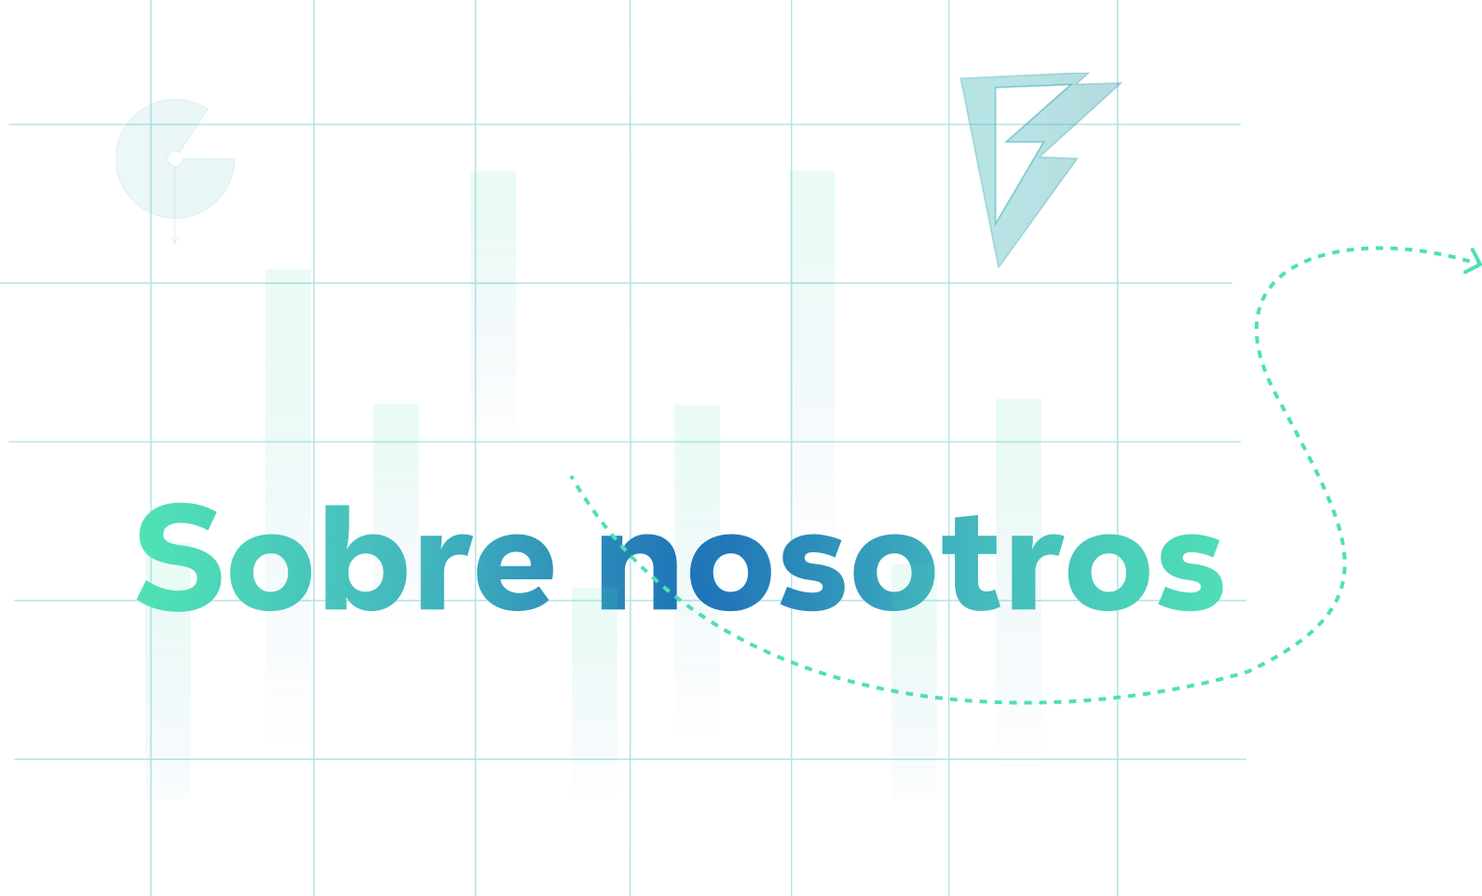
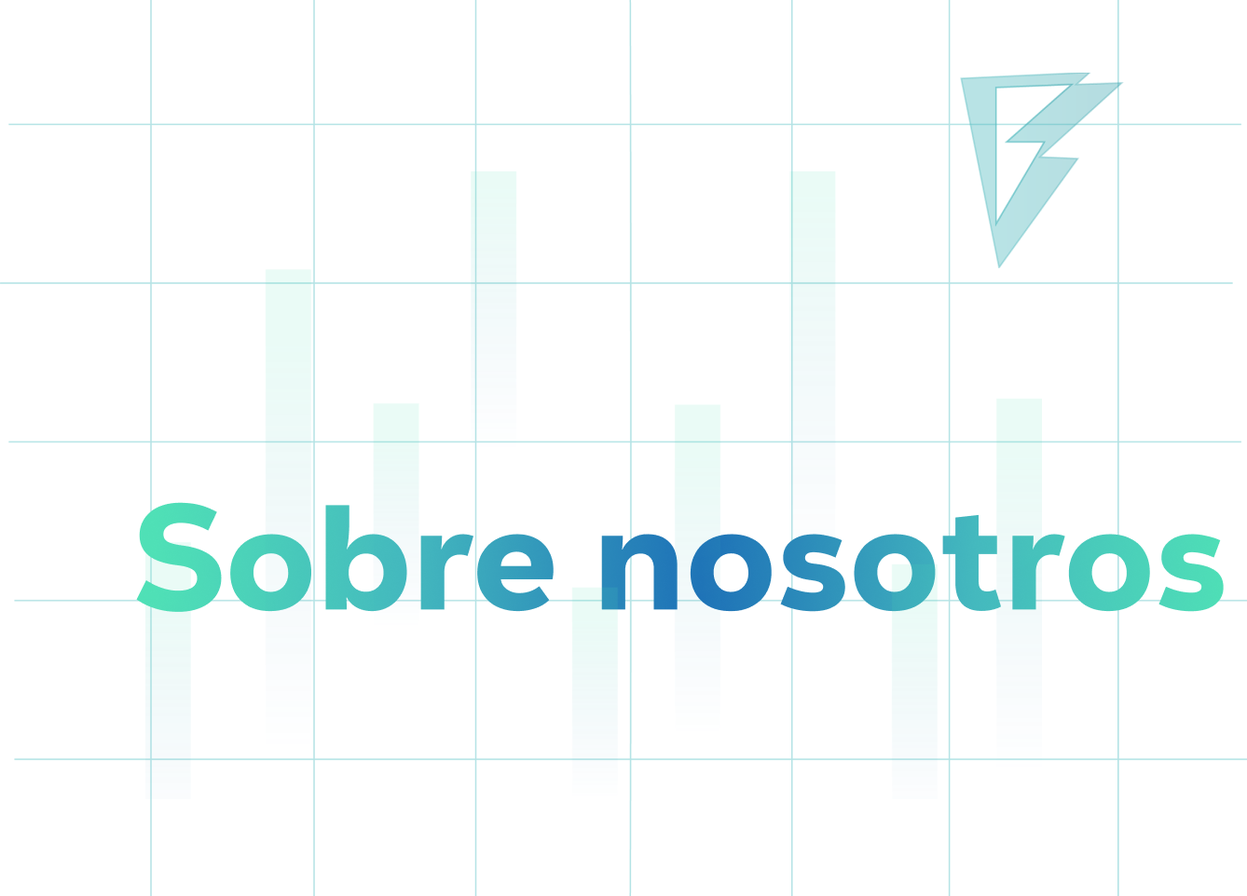
revison

diff --git a/components/landing/About/index.tsx b/components/landing/About/index.tsx
@@ -4,33 +4,16 @@ import Image from "next/image";
 const About = () => {
   return (
     <section className=" pb-10  relative ">
-      <Container className="gap-4 my-10 flex flex-col items-center lg:flex-row">
+      <Container className="gap-y-6 gap-x-[6rem] relative my-10 flex flex-col items-center lg:flex-row">
         <div className=" flex-1">
           <Image
             src={aboutImage}
             alt="about"
-            className=" w-full h-full object-cover"
+            className=" relative z-10 w-full h-full object-cover"
           />
         </div>
-        {/* <div className="  relative object-contain overflow-hidden flex items-center sm:justify-center lg:justify-end">
-          <div className="about_content space-y-6">
-            <h3 className=" text-xl lg:text-2xl text-center font-normal">
-              Somos un equipo apasionado por la tecnología, con la misión de
-              hacer las inversiones accesibles para todos los que quieran
-              invertir.
-            </h3>
-            <h3 className=" text-xl lg:text-2xl text-center font-normal">
-              Estamos comprometidos a crear soluciones de inversión, que
-              permitan a todos invertir de manera más simple.
-            </h3>
-          </div>
-          <Image
-            src={aboutReg}
-            alt="about"
-            className=" absolute w-full object-covert h-full inset-0"
-          />
-        </div> */}
-        <div className="relativeinline-flex about_content space-y-6 items-center justify-center p-1 mb-2 me-2 overflow-hidden text-sm font-medium text-gray-900 rounded-lg  bg-gradient-to-br from-[#4FE0B6] to-[#1D70B7] g">
+
+        <div className="relative inline-flex about_content space-y-6 items-center justify-center p-1 mb-2 me-2 overflow-hidden text-sm font-medium text-gray-900 rounded-lg  bg-gradient-to-br from-[#4FE0B6] to-[#1D70B7] g">
           <div className="relative overflow-hidden px-6 py-3  bg-[#02060C] transition-all ease-in duration-75  rounded-md ">
             <div className=" py-5 space-y-3">
               <h3 className=" text-white text-xl lg:text-2xl text-center font-normal">
@@ -47,6 +30,19 @@ const About = () => {
             <div className="  bg-[#4FE0B6] absolute blur-[150px] rounded-[50px] opacity-10 inset-0 w-full h-full"></div>
           </div>
         </div>
+        <svg
+          xmlns="http://www.w3.org/2000/svg"
+          width="420"
+          height="247"
+          viewBox="0 0 491 247"
+          fill="none"
+          className=" z-40  hidden lg:block absolute inset-0 transform lg:translate-x-[55%]  lg:translate-y-[50%]"
+        >
+          <path
+            d="M365 228.5L365.289 229.457L365.361 229.435L365.43 229.403L365 228.5ZM380 79.9996L380.882 79.5275L380 79.9996ZM489.953 10.8912C490.445 10.6411 490.642 10.0392 490.392 9.54675L486.316 1.52253C486.066 1.03013 485.464 0.833705 484.971 1.08381C484.479 1.33392 484.283 1.93585 484.533 2.42826L488.156 9.5609L481.023 13.1838C480.531 13.4339 480.334 14.0358 480.584 14.5282C480.834 15.0207 481.436 15.2171 481.929 14.967L489.953 10.8912ZM0.636307 124.004C0.97827 124.59 1.32196 125.173 1.66736 125.754L3.38639 124.732C3.04379 124.156 2.70289 123.577 2.36369 122.996L0.636307 124.004ZM3.76025 129.208C4.46466 130.349 5.17582 131.48 5.89362 132.601L7.57786 131.523C6.86604 130.411 6.16076 129.29 5.46215 128.158L3.76025 129.208ZM8.06679 135.934C8.81001 137.053 9.55998 138.162 10.3166 139.26L11.9637 138.126C11.2135 137.036 10.4699 135.937 9.73288 134.827L8.06679 135.934ZM12.6325 142.561C13.4111 143.651 14.1965 144.731 14.9884 145.8L16.5955 144.61C15.8105 143.55 15.0319 142.48 14.2599 141.399L12.6325 142.561ZM17.3835 148.976C18.2041 150.045 19.0313 151.103 19.8651 152.151L21.43 150.906C20.6034 149.867 19.7834 148.818 18.9699 147.758L17.3835 148.976ZM22.399 155.278C23.2501 156.309 24.1077 157.33 24.9717 158.341L26.4918 157.041C25.6354 156.039 24.7853 155.027 23.9416 154.005L22.399 155.278ZM27.5871 161.345C28.4823 162.355 29.3839 163.355 30.2919 164.343L31.7648 162.99C30.8649 162.01 29.9713 161.02 29.084 160.019L27.5871 161.345ZM33.0348 167.276C33.9554 168.243 34.8821 169.199 35.815 170.145L37.2387 168.74C36.3142 167.803 35.3957 166.856 34.4833 165.897L33.0348 167.276ZM38.6542 172.972C39.616 173.913 40.5838 174.842 41.5577 175.761L42.9303 174.307C41.9651 173.396 41.0058 172.475 40.0527 171.542L38.6542 172.972ZM44.4972 178.486C45.483 179.383 46.4746 180.27 47.4719 181.146L48.7918 179.643C47.8034 178.775 46.8206 177.896 45.8436 177.007L44.4972 178.486ZM50.5197 183.775C51.5432 184.642 52.5723 185.499 53.6071 186.344L54.8726 184.796C53.847 183.958 52.827 183.109 51.8126 182.249L50.5197 183.775ZM56.7279 188.849C57.7781 189.677 58.8338 190.494 59.8947 191.3L61.105 189.708C60.0533 188.909 59.0069 188.099 57.9659 187.278L56.7279 188.849ZM63.1175 193.706C64.197 194.497 65.2818 195.277 66.3716 196.047L67.5256 194.413C66.4452 193.65 65.3698 192.877 64.2997 192.092L63.1175 193.706ZM69.6562 198.325C70.7651 199.08 71.879 199.825 72.9978 200.559L74.0949 198.887C72.9857 198.159 71.8813 197.421 70.7819 196.672L69.6562 198.325ZM76.3719 202.732C77.5014 203.446 78.6355 204.149 79.7742 204.842L80.8142 203.134C79.685 202.447 78.5604 201.749 77.4405 201.041L76.3719 202.732ZM83.2147 206.898C84.3707 207.575 85.5311 208.242 86.6957 208.899L87.6784 207.158C86.5233 206.506 85.3725 205.844 84.2261 205.172L83.2147 206.898ZM90.2022 210.84C91.3754 211.477 92.5526 212.104 93.7337 212.72L94.6595 210.947C93.4878 210.336 92.32 209.714 91.1564 209.082L90.2022 210.84ZM97.3088 214.551C98.5044 215.151 99.7037 215.741 100.907 216.321L101.776 214.52C100.582 213.944 99.3922 213.359 98.2061 212.763L97.3088 214.551ZM104.526 218.033C105.74 218.595 106.957 219.148 108.177 219.69L108.99 217.863C107.779 217.324 106.571 216.776 105.367 216.218L104.526 218.033ZM111.855 221.293C113.084 221.817 114.316 222.332 115.551 222.837L116.308 220.986C115.082 220.485 113.859 219.974 112.64 219.453L111.855 221.293ZM119.268 224.327C120.514 224.815 121.763 225.294 123.014 225.764L123.717 223.892C122.475 223.425 121.235 222.95 119.998 222.465L119.268 224.327ZM126.776 227.146C128.032 227.597 129.291 228.039 130.552 228.472L131.202 226.58C129.949 226.15 128.699 225.711 127.452 225.263L126.776 227.146ZM134.355 229.748C135.625 230.164 136.897 230.572 138.172 230.97L138.769 229.061C137.503 228.666 136.239 228.261 134.978 227.847L134.355 229.748ZM142.001 232.14C143.282 232.521 144.564 232.894 145.848 233.258L146.394 231.334C145.118 230.972 143.844 230.602 142.572 230.223L142.001 232.14ZM149.713 234.327C151.002 234.674 152.293 235.013 153.586 235.344L154.081 233.406C152.797 233.078 151.514 232.741 150.233 232.396L149.713 234.327ZM157.469 236.311C158.77 236.626 160.071 236.933 161.373 237.231L161.82 235.282C160.526 234.985 159.232 234.68 157.94 234.367L157.469 236.311ZM165.283 238.102C166.587 238.384 167.892 238.658 169.198 238.923L169.597 236.964C168.299 236.699 167.002 236.427 165.706 236.147L165.283 238.102ZM173.132 239.7C174.445 239.951 175.758 240.194 177.072 240.429L177.425 238.461C176.119 238.227 174.813 237.985 173.508 237.736L173.132 239.7ZM181.014 241.112C182.332 241.332 183.65 241.545 184.968 241.75L185.276 239.773C183.965 239.57 182.654 239.358 181.344 239.139L181.014 241.112ZM188.933 242.343C190.255 242.534 191.576 242.716 192.897 242.892L193.16 240.909C191.847 240.735 190.533 240.553 189.219 240.364L188.933 242.343ZM196.864 243.396C198.194 243.558 199.522 243.713 200.85 243.86L201.07 241.872C199.75 241.726 198.428 241.572 197.106 241.411L196.864 243.396ZM204.831 244.279C206.157 244.412 207.482 244.538 208.806 244.656L208.984 242.664C207.668 242.546 206.349 242.421 205.03 242.289L204.831 244.279ZM212.807 244.994C214.14 245.099 215.472 245.198 216.802 245.289L216.94 243.294C215.616 243.203 214.291 243.105 212.965 243L212.807 244.994ZM220.787 245.544C222.124 245.622 223.459 245.694 224.792 245.759L224.889 243.762C223.563 243.697 222.235 243.625 220.904 243.547L220.787 245.544ZM228.797 245.935C230.13 245.987 231.46 246.033 232.788 246.072L232.847 244.072C231.525 244.034 230.201 243.989 228.875 243.937L228.797 245.935ZM236.791 246.17C238.131 246.196 239.469 246.216 240.804 246.23L240.824 244.23C239.496 244.216 238.164 244.196 236.831 244.17L236.791 246.17ZM244.799 246.252C246.134 246.253 247.467 246.248 248.796 246.237L248.779 244.237C247.456 244.248 246.13 244.253 244.801 244.252L244.799 246.252ZM252.813 246.184C254.149 246.16 255.481 246.13 256.809 246.095L256.755 244.095C255.433 244.131 254.107 244.161 252.778 244.184L252.813 246.184ZM260.797 245.969C262.141 245.921 263.481 245.867 264.816 245.807L264.726 243.809C263.397 243.869 262.063 243.923 260.725 243.971L260.797 245.969ZM268.809 245.609C270.14 245.537 271.465 245.46 272.786 245.377L272.661 243.38C271.346 243.463 270.026 243.54 268.701 243.612L268.809 245.609ZM276.805 245.106C278.139 245.01 279.467 244.908 280.791 244.801L280.63 242.808C279.312 242.914 277.989 243.015 276.661 243.111L276.805 245.106ZM284.758 244.463C286.102 244.343 287.439 244.217 288.771 244.086L288.574 242.096C287.249 242.226 285.917 242.352 284.579 242.471L284.758 244.463ZM292.745 243.677C294.072 243.534 295.392 243.386 296.705 243.233L296.473 241.247C295.166 241.399 293.852 241.546 292.531 241.688L292.745 243.677ZM300.706 242.75C302.033 242.583 303.352 242.412 304.663 242.236L304.396 240.254C303.091 240.429 301.778 240.6 300.458 240.765L300.706 242.75ZM308.619 241.686C309.956 241.495 311.284 241.298 312.603 241.097L312.301 239.12C310.988 239.32 309.666 239.516 308.335 239.707L308.619 241.686ZM316.532 240.479C317.862 240.263 319.183 240.043 320.494 239.819L320.156 237.848C318.851 238.071 317.537 238.29 316.212 238.505L316.532 240.479ZM324.447 239.123C325.755 238.886 327.051 238.645 328.337 238.4L327.963 236.436C326.683 236.679 325.393 236.919 324.091 237.155L324.447 239.123ZM332.314 237.623C333.629 237.359 334.932 237.091 336.222 236.819L335.81 234.862C334.526 235.132 333.23 235.399 331.921 235.662L332.314 237.623ZM340.129 235.975C341.454 235.682 342.763 235.385 344.058 235.084L343.606 233.136C342.318 233.435 341.015 233.73 339.697 234.022L340.129 235.975ZM347.897 234.172C349.23 233.847 350.545 233.52 351.843 233.188L351.348 231.251C350.058 231.58 348.75 231.906 347.425 232.228L347.897 234.172ZM355.687 232.184C357.003 231.832 358.3 231.477 359.576 231.119L359.036 229.193C357.767 229.549 356.479 229.902 355.17 230.252L355.687 232.184ZM363.417 230.015C364.046 229.829 364.67 229.644 365.289 229.457L364.711 227.542C364.097 227.727 363.477 227.912 362.852 228.096L363.417 230.015ZM365.43 229.403C366.044 229.11 366.652 228.818 367.254 228.526L366.381 226.727C365.783 227.017 365.18 227.307 364.57 227.597L365.43 229.403ZM370.793 226.772C371.989 226.167 373.159 225.561 374.304 224.955L373.368 223.187C372.235 223.787 371.075 224.388 369.89 224.988L370.793 226.772ZM377.77 223.075C378.95 222.42 380.1 221.763 381.221 221.106L380.21 219.38C379.102 220.03 377.965 220.679 376.798 221.327L377.77 223.075ZM384.575 219.084C385.732 218.365 386.857 217.645 387.947 216.923L386.844 215.255C385.77 215.966 384.662 216.676 383.52 217.384L384.575 219.084ZM391.202 214.695C392.304 213.913 393.367 213.13 394.394 212.343L393.178 210.756C392.172 211.526 391.127 212.296 390.045 213.063L391.202 214.695ZM397.516 209.848C398.555 208.981 399.55 208.11 400.502 207.234L399.148 205.762C398.22 206.615 397.249 207.465 396.234 208.313L397.516 209.848ZM403.344 204.479C404.3 203.5 405.205 202.514 406.06 201.523L404.545 200.217C403.718 201.176 402.842 202.131 401.913 203.082L403.344 204.479ZM408.572 198.398C409.388 197.306 410.145 196.207 410.847 195.098L409.157 194.028C408.484 195.092 407.755 196.15 406.97 197.201L408.572 198.398ZM412.849 191.621C413.474 190.417 414.037 189.203 414.54 187.977L412.69 187.218C412.21 188.388 411.672 189.547 411.074 190.698L412.849 191.621ZM415.892 184.19C416.285 182.904 416.615 181.605 416.886 180.293L414.927 179.889C414.669 181.141 414.354 182.38 413.979 183.606L415.892 184.19ZM417.521 176.323C417.672 175.001 417.768 173.666 417.81 172.317L415.811 172.255C415.771 173.551 415.679 174.83 415.534 176.095L417.521 176.323ZM417.781 168.304C417.723 166.99 417.618 165.662 417.469 164.319L415.481 164.541C415.626 165.841 415.727 167.125 415.783 168.393L417.781 168.304ZM416.911 160.376C416.691 159.089 416.434 157.789 416.141 156.475L414.189 156.91C414.475 158.193 414.726 159.46 414.939 160.712L416.911 160.376ZM415.189 152.616C414.85 151.356 414.481 150.082 414.082 148.795L412.172 149.387C412.563 150.651 412.926 151.901 413.258 153.136L415.189 152.616ZM412.842 145.01C412.42 143.787 411.974 142.552 411.506 141.304L409.633 142.008C410.096 143.24 410.536 144.458 410.951 145.662L412.842 145.01ZM410.072 137.622C409.585 136.412 409.079 135.189 408.553 133.954L406.713 134.738C407.234 135.961 407.735 137.171 408.217 138.369L410.072 137.622ZM406.977 130.339C406.449 129.156 405.906 127.961 405.347 126.755L403.532 127.595C404.087 128.793 404.627 129.98 405.15 131.153L406.977 130.339ZM403.657 123.166C403.099 121.998 402.528 120.82 401.944 119.631L400.149 120.512C400.73 121.695 401.298 122.868 401.853 124.028L403.657 123.166ZM400.193 116.1C399.608 114.934 399.012 113.757 398.406 112.569L396.624 113.478C397.229 114.662 397.822 115.835 398.405 116.996L400.193 116.1ZM396.614 109.084C396.012 107.923 395.402 106.751 394.783 105.569L393.011 106.497C393.629 107.677 394.238 108.845 394.838 110.003L396.614 109.084ZM392.96 102.105C392.351 100.952 391.734 99.7887 391.109 98.6155L389.344 99.5549C389.967 100.727 390.583 101.888 391.192 103.039L392.96 102.105ZM389.262 95.1514C388.648 94.0033 388.028 92.8455 387.402 91.6779L385.639 92.623C386.265 93.79 386.885 94.9471 387.498 96.0943L389.262 95.1514ZM385.543 88.2133C384.927 87.0661 384.307 85.9128 383.681 84.7469L381.919 85.693C382.544 86.8569 383.166 88.0145 383.781 89.1594L385.543 88.2133ZM381.821 81.2812C381.509 80.6989 381.196 80.1144 380.882 79.5275L379.118 80.4718C379.433 81.059 379.746 81.6438 380.059 82.2263L381.821 81.2812ZM380.882 79.5275C380.562 78.9314 380.251 78.3392 379.947 77.7507L378.17 78.6676C378.478 79.2654 378.794 79.8667 379.118 80.4718L380.882 79.5275ZM378.22 74.2659C377.649 73.0664 377.113 71.8836 376.609 70.7173L374.773 71.5103C375.286 72.6993 375.833 73.9041 376.413 75.1246L378.22 74.2659ZM375.148 67.1444C374.668 65.8974 374.226 64.6704 373.823 63.4634L371.926 64.097C372.339 65.3338 372.791 66.5892 373.282 67.8635L375.148 67.1444ZM372.7 59.8066C372.341 58.5197 372.027 57.257 371.757 56.0184L369.803 56.4447C370.081 57.7222 370.405 59.0221 370.774 60.3447L372.7 59.8066ZM371.053 52.2195C370.857 50.9258 370.712 49.6603 370.616 48.4227L368.622 48.5781C368.722 49.8654 368.873 51.1789 369.076 52.5187L371.053 52.2195ZM370.471 44.5754C370.477 43.261 370.541 41.981 370.662 40.7348L368.671 40.5426C368.545 41.8515 368.477 43.1927 368.471 44.5665L370.471 44.5754ZM371.217 36.9543C371.469 35.6862 371.785 34.4564 372.159 33.2642L370.252 32.6643C369.855 33.9261 369.522 35.2257 369.255 36.5634L371.217 36.9543ZM373.503 29.7041C374.021 28.5358 374.602 27.4071 375.243 26.3176L373.519 25.3035C372.84 26.4582 372.224 27.6547 371.674 28.8933L373.503 29.7041ZM377.359 23.1441C378.119 22.1306 378.938 21.1553 379.811 20.2178L378.347 18.8546C377.427 19.8425 376.563 20.872 375.759 21.9437L377.359 23.1441ZM382.553 17.5542C383.5 16.7194 384.496 15.9195 385.539 15.1542L384.356 13.5417C383.267 14.3408 382.224 15.178 381.23 16.0538L382.553 17.5542ZM388.728 13.0103C389.806 12.3453 390.925 11.7117 392.082 11.1092L391.158 9.33535C389.961 9.95911 388.8 10.6164 387.678 11.3077L388.728 13.0103ZM395.573 9.43556C396.736 8.92267 397.931 8.43762 399.156 7.9802L398.456 6.10656C397.197 6.57693 395.966 7.07648 394.766 7.60557L395.573 9.43556ZM402.81 6.72504C404.027 6.34131 405.27 5.98243 406.537 5.64821L406.026 3.71443C404.73 4.05639 403.457 4.42399 402.209 4.81753L402.81 6.72504ZM410.324 4.73686C411.575 4.464 412.845 4.21345 414.133 3.98506L413.784 2.01576C412.471 2.2486 411.175 2.50421 409.898 2.78285L410.324 4.73686ZM417.968 3.37781C419.244 3.19923 420.535 3.0411 421.841 2.90326L421.631 0.914317C420.303 1.05447 418.99 1.21533 417.691 1.39712L417.968 3.37781ZM425.722 2.55601C427.005 2.46147 428.299 2.38559 429.605 2.32823L429.517 0.330155C428.192 0.388369 426.878 0.465396 425.575 0.561425L425.722 2.55601ZM433.51 2.21217C434.801 2.19184 436.1 2.18894 437.408 2.20331L437.43 0.20343C436.105 0.188864 434.787 0.191804 433.478 0.21242L433.51 2.21217ZM441.304 2.2963C442.601 2.34371 443.904 2.40759 445.212 2.4878L445.334 0.491546C444.01 0.410345 442.691 0.345656 441.378 0.297636L441.304 2.2963ZM449.097 2.7726C450.389 2.88265 451.685 3.00825 452.984 3.14927L453.2 1.16095C451.886 1.01828 450.574 0.891188 449.267 0.779814L449.097 2.7726ZM456.865 3.61507C458.15 3.78405 459.437 3.96787 460.726 4.16637L461.031 2.18969C459.727 1.98895 458.425 1.80305 457.125 1.63214L456.865 3.61507ZM464.583 4.80388C465.862 5.0296 467.141 5.26963 468.419 5.52385L468.809 3.56226C467.517 3.30524 466.224 3.06256 464.931 2.83433L464.583 4.80388ZM472.242 6.32693C473.512 6.60806 474.781 6.90311 476.047 7.21196L476.521 5.26893C475.241 4.95669 473.959 4.6584 472.674 4.37418L472.242 6.32693ZM479.831 8.17819C481.089 8.51389 482.343 8.8632 483.593 9.22599L484.151 7.30524C482.887 6.9384 481.618 6.58522 480.347 6.24581L479.831 8.17819ZM487.332 10.3554C487.953 10.5504 488.572 10.7487 489.19 10.9503L489.81 9.04895C489.185 8.84505 488.559 8.64452 487.931 8.44737L487.332 10.3554Z"
+            fill="#4FE0B6"
+          />
+        </svg>
       </Container>
     </section>
   );

diff --git a/components/landing/Reason.tsx b/components/landing/Reason.tsx
@@ -8,18 +8,173 @@ const Reasons = () => {
         <h2 className="heading">3 RAZONES PARA INVERTIR CON FREQUENCY </h2>
         <div className=" pt-10 xl:pt-16 grid sm:grid-cols-2 gap-10  lg:grid-cols-3">
           <ResonsCard
-            icon="/charts.png"
+            icon={
+              <svg
+                xmlns="http://www.w3.org/2000/svg"
+                width={75}
+                height={59}
+                viewBox="0 0 75 59"
+                fill="none"
+              >
+                <path
+                  d="M18.0111 26.1053H26.9943C27.1737 26.1053 27.342 26.2013 27.4355 26.357L31.726 33.5038C31.9203 33.8274 32.3824 33.8418 32.5785 33.5303L41.9647 18.6216C42.1515 18.3249 42.5852 18.3206 42.7945 18.6134L47.9941 25.8883C48.0912 26.0241 48.2477 26.1053 48.4125 26.1053H55.1042"
+                  stroke="#4FE0B6"
+                  strokeWidth={4}
+                  strokeLinecap="round"
+                />
+                <g filter="url(#filter0_d_1_314)">
+                  <path
+                    d="M4.55932 10.6687C4.56805 4.72593 9.30491 0 15.2527 0H59.168C65.3712 0 70.4924 5.12444 70.4833 11.3225L70.4407 40.3313C70.432 46.2741 65.6951 51 59.7473 51H15.8321C9.62882 51 4.5076 45.8756 4.5167 39.6775L4.55932 10.6687Z"
+                    fill="url(#paint0_linear_1_314)"
+                    shapeRendering="crispEdges"
+                  />
+                  <path
+                    d="M6.56012 10.7282C6.56726 5.86587 10.4429 1.9992 15.3093 1.9992H59.2245C64.2999 1.9992 68.49 6.19192 68.4825 11.263L68.4399 40.2718C68.4328 45.1341 64.5572 49.0008 59.6908 49.0008H15.7755C10.7001 49.0008 6.51005 44.8081 6.5175 39.737L6.56012 10.7282Z"
+                    stroke="#4FE0B6"
+                    strokeWidth={4}
+                    shapeRendering="crispEdges"
+                  />
+                </g>
+                <defs>
+                  <filter
+                    id="filter0_d_1_314"
+                    x="0.516693"
+                    y={0}
+                    width="73.9667"
+                    height={59}
+                    filterUnits="userSpaceOnUse"
+                    colorInterpolationFilters="sRGB"
+                  >
+                    <feFlood floodOpacity={0} result="BackgroundImageFix" />
+                    <feColorMatrix
+                      in="SourceAlpha"
+                      type="matrix"
+                      values="0 0 0 0 0 0 0 0 0 0 0 0 0 0 0 0 0 0 127 0"
+                      result="hardAlpha"
+                    />
+                    <feOffset dy={4} />
+                    <feGaussianBlur stdDeviation={2} />
+                    <feComposite in2="hardAlpha" operator="out" />
+                    <feColorMatrix
+                      type="matrix"
+                      values="0 0 0 0 0 0 0 0 0 0 0 0 0 0 0 0 0 0 0.25 0"
+                    />
+                    <feBlend
+                      mode="normal"
+                      in2="BackgroundImageFix"
+                      result="effect1_dropShadow_1_314"
+                    />
+                    <feBlend
+                      mode="normal"
+                      in="SourceGraphic"
+                      in2="effect1_dropShadow_1_314"
+                      result="shape"
+                    />
+                  </filter>
+                  <linearGradient
+                    id="paint0_linear_1_314"
+                    x1="36.7788"
+                    y1={0}
+                    x2="36.7788"
+                    y2={51}
+                    gradientUnits="userSpaceOnUse"
+                  >
+                    <stop stopColor="#4FE0B6" stopOpacity="0.31" />
+                    <stop offset={1} stopColor="#D9D9D9" stopOpacity={0} />
+                  </linearGradient>
+                </defs>
+              </svg>
+            }
             title="Tecnologia de punta:"
             description="Usamos IA de vanguardia desarrollada por expertos para brindarte una plataforma de inversion que se destaca por su capacidad para ofrecer resultados aun en momentos complejos
             del mercado."
           />
           <ResonsCard
-            icon="/laptop.png"
+            icon={
+              <svg
+                xmlns="http://www.w3.org/2000/svg"
+                width={65}
+                height={51}
+                viewBox="0 0 65 51"
+                fill="none"
+              >
+                <path
+                  d="M18.7511 48.6313H44.4983"
+                  stroke="#4FE0B6"
+                  strokeWidth={4}
+                  strokeLinecap="round"
+                />
+                <path
+                  d="M5.61334 3L58.873 3L58.9411 38.088H5.65635L5.61334 3Z"
+                  fill="url(#paint0_linear_1_319)"
+                />
+                <path
+                  d="M3.95636 12.0631C3.88389 7.00871 7.99668 2.78209 13.0581 2.70951L51.8689 2.15297C56.7517 2.08295 60.7012 5.91554 60.7711 10.7916L61.0437 29.7957C61.1161 34.85 57.0035 39.0766 51.9423 39.1494L13.1314 39.7072C8.24849 39.7774 4.29876 35.9448 4.22885 31.0685L3.95636 12.0631Z"
+                  stroke="#4FE0B6"
+                  strokeWidth={4}
+                />
+                <defs>
+                  <linearGradient
+                    id="paint0_linear_1_319"
+                    x1="33.3058"
+                    y1="2.04577"
+                    x2="33.3058"
+                    y2="38.4725"
+                    gradientUnits="userSpaceOnUse"
+                  >
+                    <stop stopColor="#4FE0B6" stopOpacity="0.31" />
+                    <stop offset={1} stopColor="#134133" stopOpacity="0.22" />
+                  </linearGradient>
+                </defs>
+              </svg>
+            }
             title="Transparencia total: "
             description="Creemos en la transparencia en todo lo que hacemos.Te brindamos acceso a información  clara y detallada sobre nuestras estrategias de inversión automatizadas y el rendimiento de tu cartera."
-          />{" "}
+          />
           <ResonsCard
-            icon="/check.png"
+            icon={
+              <svg
+                xmlns="http://www.w3.org/2000/svg"
+                width={51}
+                height={52}
+                viewBox="0 0 51 52"
+                fill="none"
+              >
+                <ellipse
+                  cx="22.8061"
+                  cy="23.303"
+                  rx="22.8061"
+                  ry="23.303"
+                  transform="matrix(0.999936 -0.0113026 0.0159571 0.999873 2.08807 2.53784)"
+                  fill="url(#paint0_linear_1_325)"
+                  fillOpacity="0.8"
+                />
+                <path
+                  d="M49.0048 25.5309C49.217 38.8223 38.8361 49.6643 25.8832 49.8107C12.9303 49.9571 2.20728 39.3536 1.99516 26.0622C1.78304 12.7708 12.1638 1.92877 25.1168 1.78236C38.0697 1.63595 48.7927 12.2395 49.0048 25.5309Z"
+                  stroke="#4FE0B6"
+                  strokeWidth={3}
+                />
+                <path
+                  d="M14.7205 27.4941L18.8147 31.3567C20.018 32.492 21.908 32.4464 23.0443 31.2546L35.87 17.8037"
+                  stroke="#4FE0B6"
+                  strokeWidth={4}
+                  strokeLinecap="round"
+                />
+                <defs>
+                  <linearGradient
+                    id="paint0_linear_1_325"
+                    x1="23.1123"
+                    y1="-17.7119"
+                    x2="23.1123"
+                    y2="38.5725"
+                    gradientUnits="userSpaceOnUse"
+                  >
+                    <stop stopColor="#4FE0B6" stopOpacity="0.7" />
+                    <stop offset={1} stopColor="#1E5344" stopOpacity="0.67" />
+                  </linearGradient>
+                </defs>
+              </svg>
+            }
             title="Solidez y confianza: "
             description="Nuestras herramientas automatizadas están respaldadas por la supervisión de expertos en inversiones e IA, brindandote la tranquilidad  de que tu dinero está en buenas manos."
           />

diff --git a/components/landing/ResonsCard.tsx b/components/landing/ResonsCard.tsx
@@ -1,8 +1,8 @@
-import { FC } from "react";
+import { FC, ReactNode } from "react";
 
 interface IProps {
   title: string;
-  icon: string;
+  icon: string | ReactNode;
   description: string;
 }
 
@@ -10,14 +10,9 @@ const ResonsCard: FC<IProps> = ({ title, icon, description }) => {
   return (
     <div className="reason_card">
       <div className="flex overflow-hidden justify-center">
-        <div
-          style={{
-            backgroundImage: `url(${icon})`,
-          }}
-          className=" w-16 h-16  bg-contain relative p m-0 p-0 bg-no-repeat"
-        ></div>
+        <div className="">{icon}</div>
       </div>
-      <div className=" pt-2 space-y-3">
+      <div className=" pt-6 space-y-3">
         <h4 className=" text-base lg:text-xl font-[950] text-center">
           {title}
         </h4>
